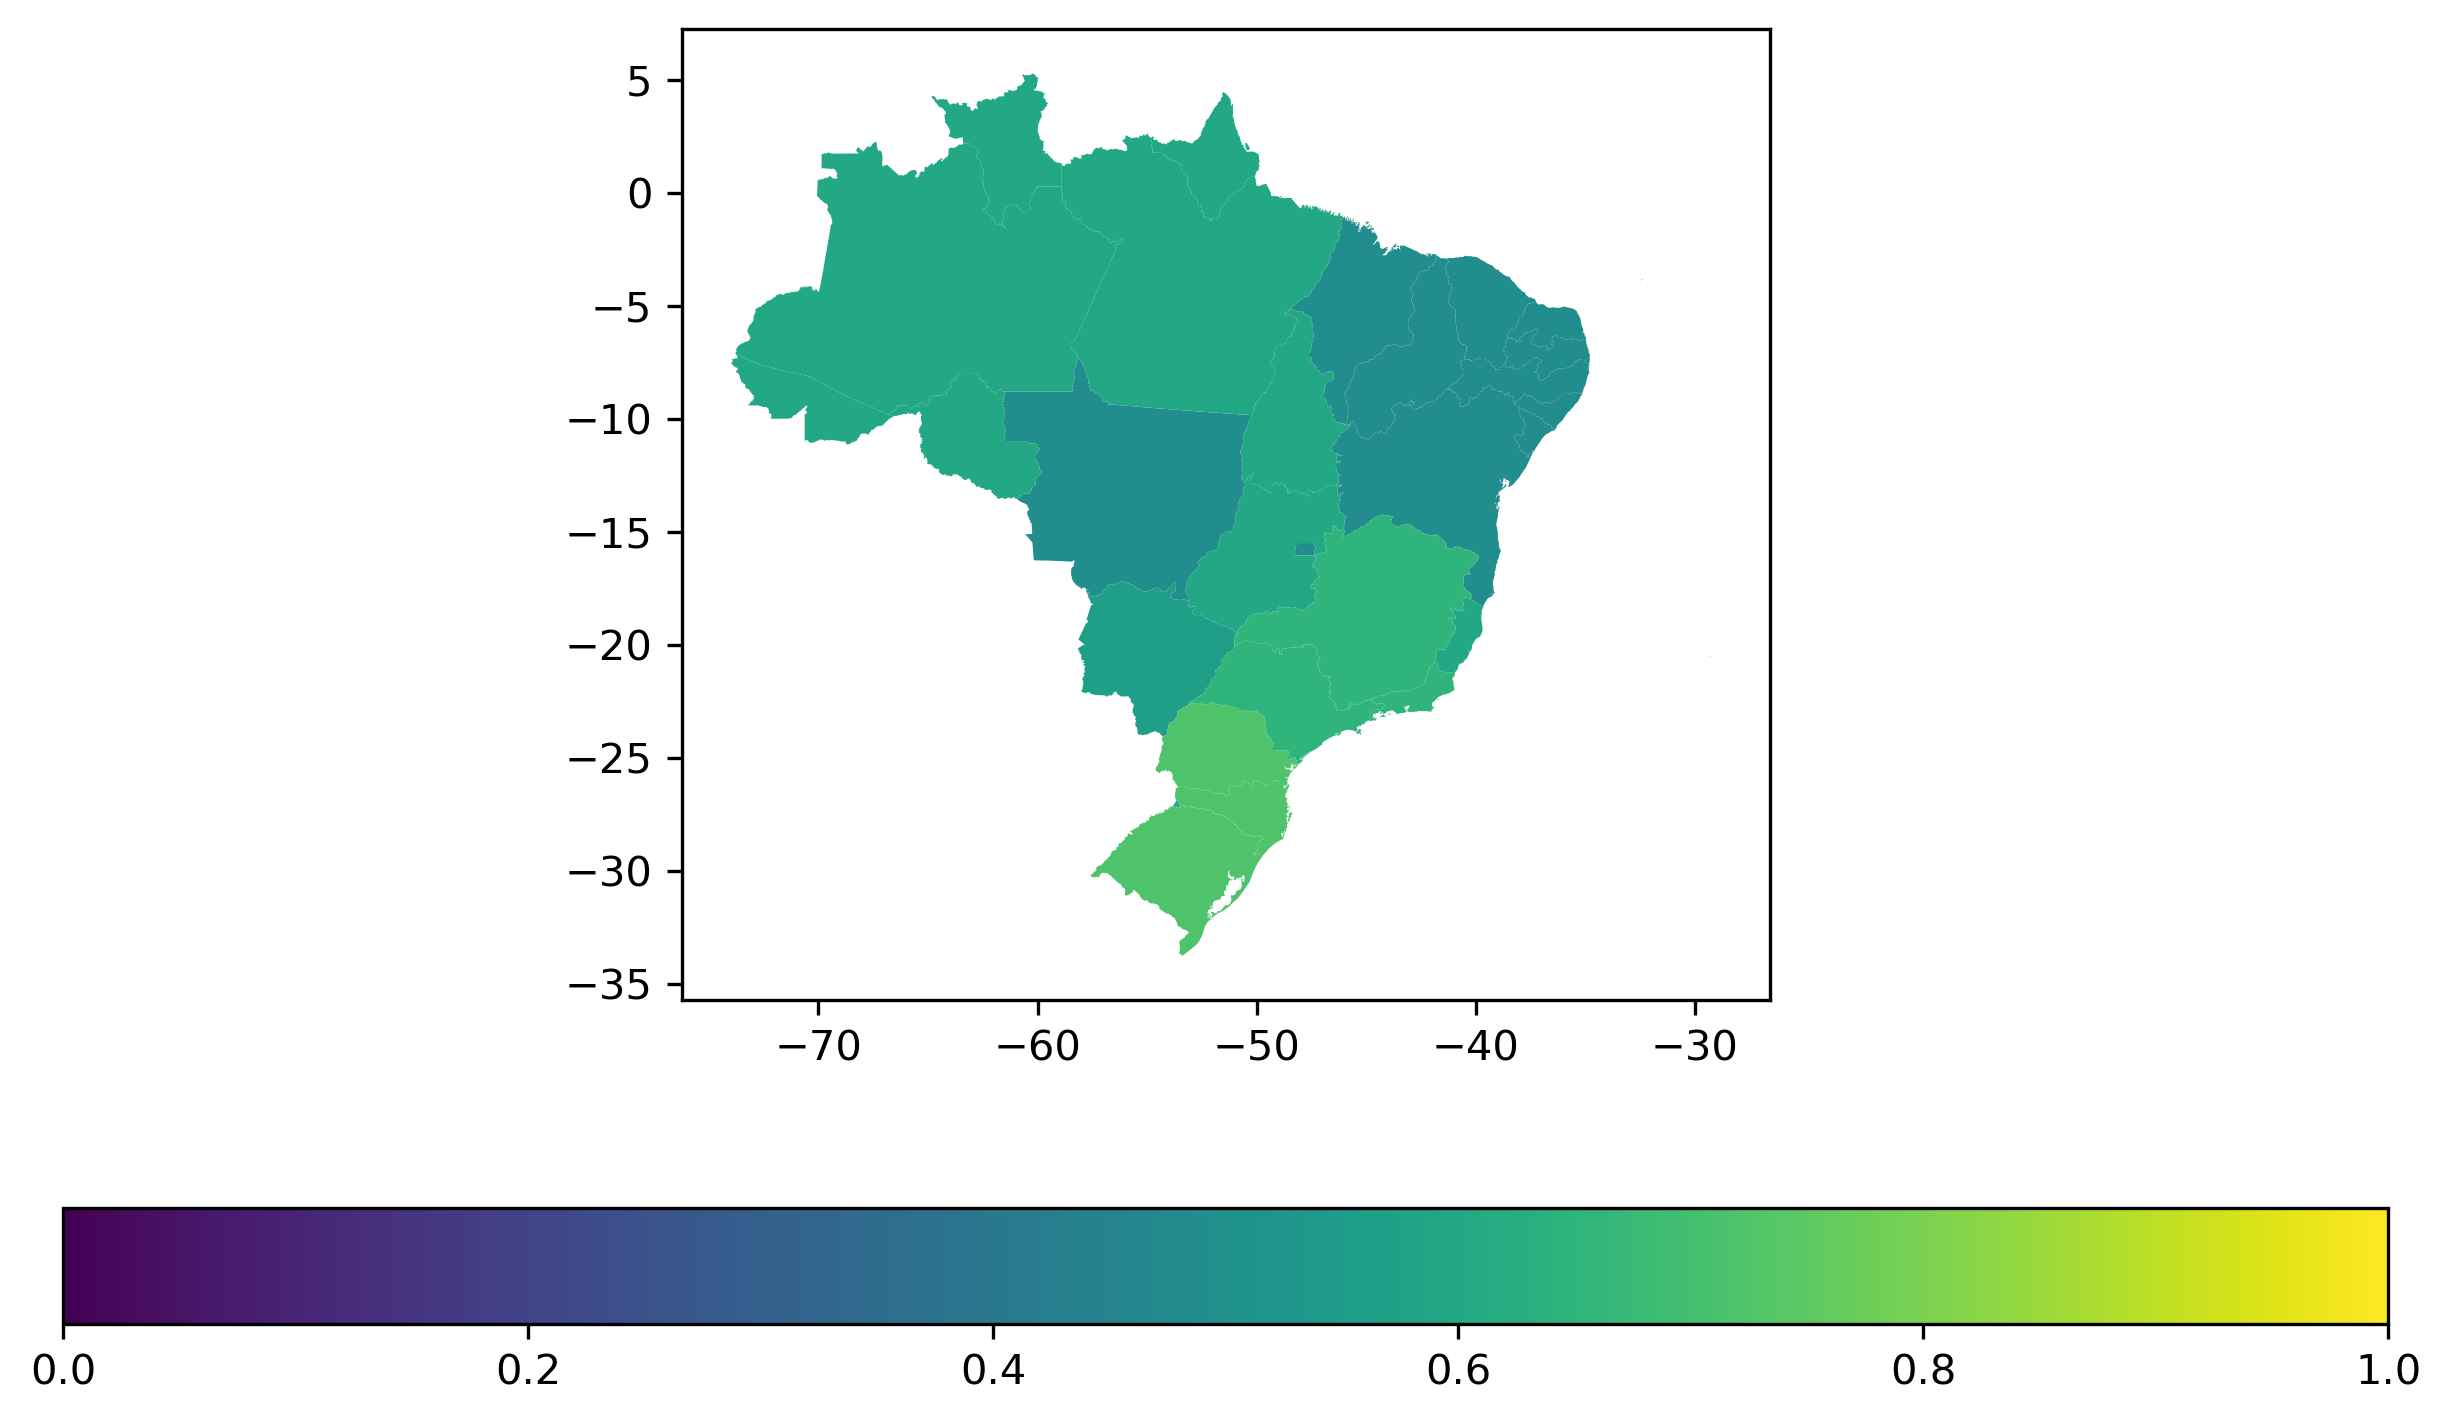
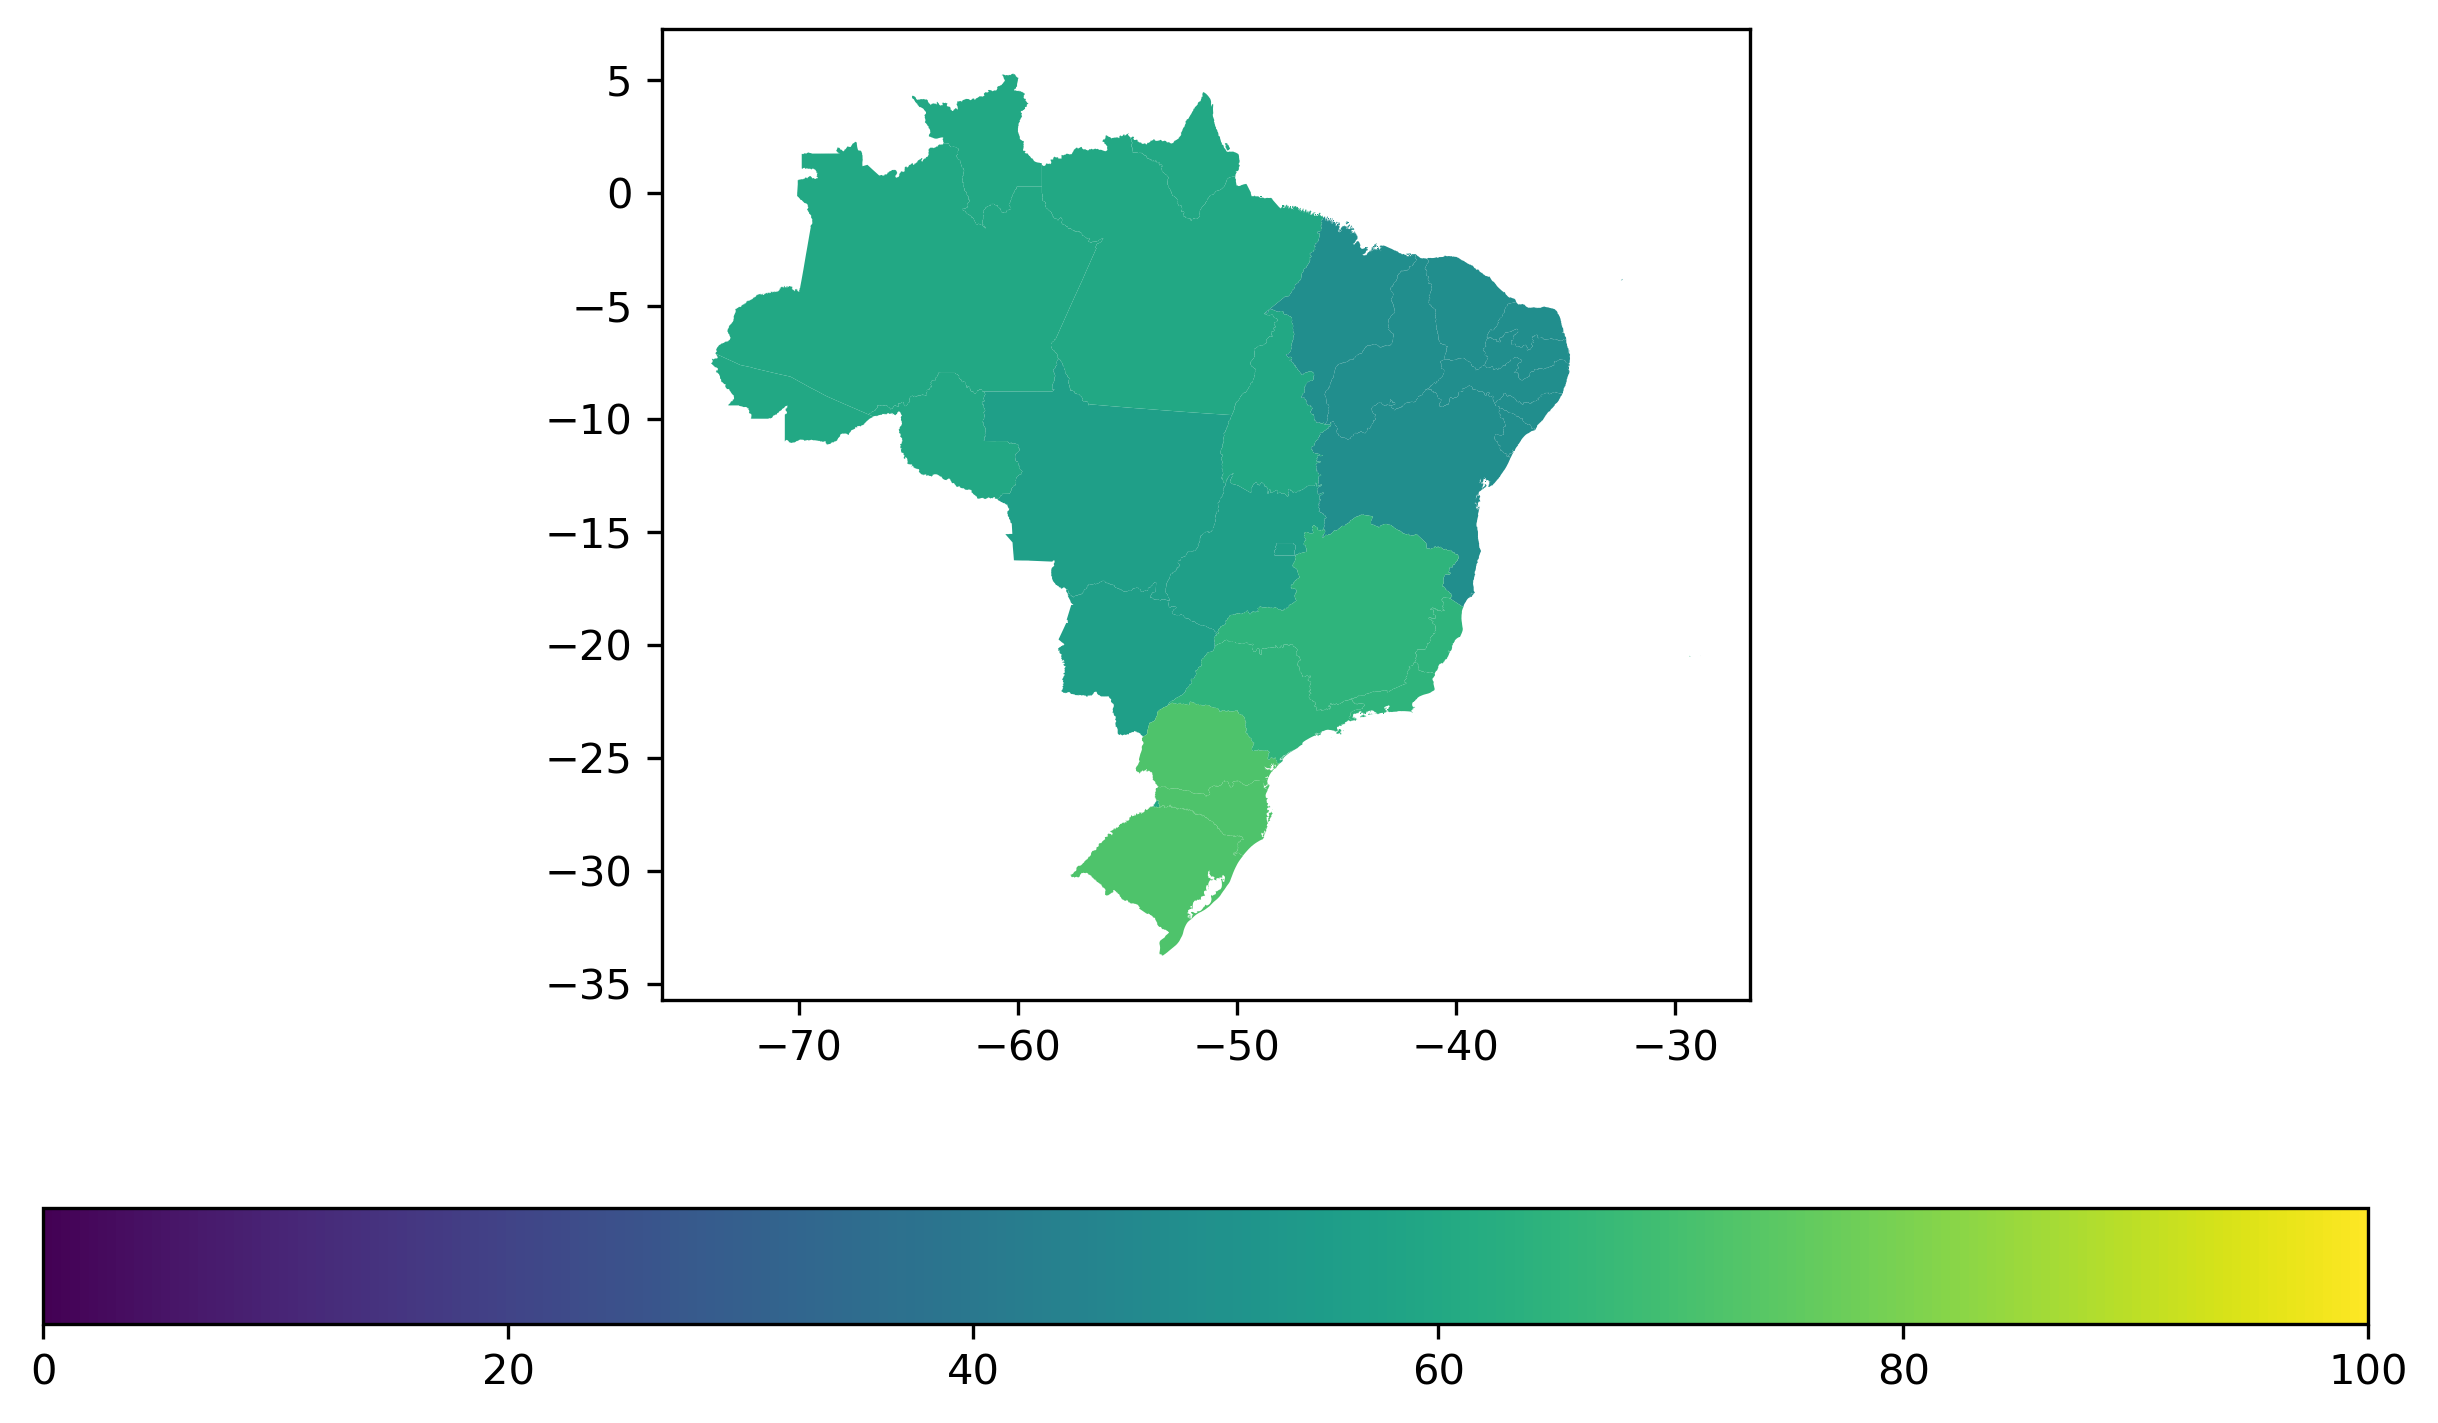
Fez algumas alterações

diff --git a/governo_eletronico_digital_brasil.tex b/governo_eletronico_digital_brasil.tex
@@ -79,4 +79,12 @@ O governo digital traz diversos benefícios, além dos benefícios do governo el
 
 Outra vantagem é mencionada por \cite{veiga2016digital}. O autor afirma que o uso de governo digital e serviços públicos online têm um grande potencial de reduzir o fardo administrativo, bem como, promover inovação e crescimento econômico. Além de contribuir com a diminuição das atividades da economia informal, aumentando a quantidade de pessoas que pagam impostos e reduzing a corrupção.
 
-A pesquisa \href{https://cetic.br/pt/pesquisa/domicilios/}{TIC Domicílios 2024} da Cetic.br revelou o percentual de uso de governo eletrônico tanto por domicílios, quanto por indivíduos. O resultado está presente nas figuras {} e {}.
+A pesquisa \href{https://cetic.br/pt/pesquisa/domicilios/}{TIC Domicílios 2024} da Cetic.br revelou o percentual de uso de governo eletrônico tanto por domicílios por indivíduos. O resultado está presente na figura \ref{fig:mapa_coropleto_paises_uso_egov_regioes}.
+
+\begin{figure}[H]
+	\centering
+	\caption{Uso de ferramentas de governo eletrônico por região do Brasil}
+	\includegraphics[width=1\linewidth]{figuras/mapa_coropleto_paises_uso_egov_regioes}
+	\label{fig:mapa_coropleto_paises_uso_egov_regioes}
+	\footnotesize{Fonte: \cite{tic_domicilios_2024_g1}}
+\end{figure}
